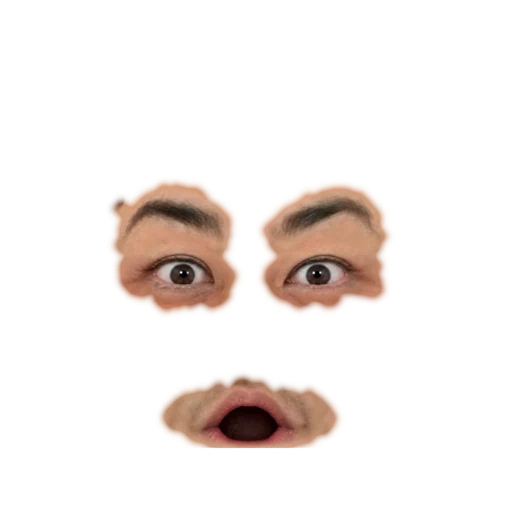
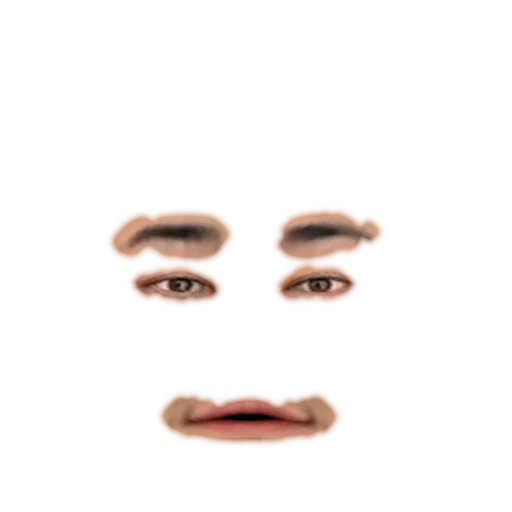
fix: 마동철 놀란 눈을 실사로 바꾸고 표정 그림 노멀맵 유지 (#167)

Changed region(s): [[0.2188, 0.3438, 0.4688, 0.625], [0.5, 0.3438, 0.7812, 0.625], [0.3438, 0.7188, 0.6562, 0.875]]

diff --git a/src/scene/realAssets.js b/src/scene/realAssets.js
@@ -195,7 +195,7 @@ function faceDecals(model, F, scene){
   const uvs = new THREE.BufferAttribute(uv, 2);
   const geos = parts.map(ix => {
     const q = new THREE.BufferGeometry();
-    q.setAttribute("position", P); q.setAttribute("normal", Nm); q.setAttribute("uv", uvs); q.setIndex(ix);
+    q.setAttribute("position", P); q.setAttribute("normal", Nm); q.setAttribute("uv", geo.attributes.uv); q.setAttribute("uvDecal", uvs); q.setIndex(ix);
     return q;
   });
   const loader = new THREE.TextureLoader();
@@ -206,8 +206,16 @@ function faceDecals(model, F, scene){
     geos.forEach((q, part) => {
       if(name === "closed" && part === 1) return;      // closing the eyes leaves the mouth as it is
       const m = model.skin.clone();
-      Object.assign(m, {map, normalMap: null, transparent: true, opacity: 0, depthWrite: false,
+      Object.assign(m, {map, transparent: true, opacity: 0, depthWrite: false,
         polygonOffset: true, polygonOffsetFactor: -1, polygonOffsetUnits: -4});
+      // the painting goes on by its projection (uvDecal); the skin's normal map stays on the mesh's own uv. Without it the
+      // patch shaded flat and lighter than the skin around it, a pale band over the eyes (user: "눈이 너무 어색해", 2026-10-24)
+      m.onBeforeCompile = sh => {
+        sh.vertexShader = "attribute vec2 uvDecal;\nvarying vec2 vDecalUv;\n" + sh.vertexShader.replace("#include <uv_vertex>", "#include <uv_vertex>\n  vDecalUv = uvDecal;");
+        sh.fragmentShader = "varying vec2 vDecalUv;\n" + sh.fragmentShader.replace("#include <map_fragment>",
+          "vec4 sampledDiffuseColor = texture2D(map, vDecalUv);\n  diffuseColor *= sampledDiffuseColor;");
+      };
+      m.customProgramCacheKey = () => "faceDecal";
       const d = new THREE.Mesh(q, m);
       d.position.copy(o.position); d.quaternion.copy(o.quaternion); d.scale.copy(o.scale);
       d.renderOrder = 1 + k; d.frustumCulled = false; d.visible = false;

diff --git a/AGENTS.md b/AGENTS.md
@@ -435,4 +435,5 @@
   - `realAssets.js` `MODELS.patient12.seam`이 그 자름을 가리키고, `neckColumn`이 거기서부터 짧게(6 cm) 비튼다.
   - 표정 4장 겹침은 최필라와 같다. 손은 측정값 그대로다(짧은 머리라 귀가 피부에 드러남).
   - 절차는 `scripts/assets/README.md` "이미지 기반 환자 2"에 있다. 폰 실기기 확인 전이다.
+  - 눈(2026-10-24, 사용자: "눈이 너무 어색해. 존나 괴상하다."): 놀람 그림(`expr_open`)이 흰자 큰 만화 눈이라 원래 눈과 겹쳐 유리알처럼 보였다. 평소 눈에서 조금만 더 뜬 실사 눈으로 다시 그렸다. 표정 그림 메시(`faceDecals`)는 이제 피부 노멀맵을 메시 원래 uv로 그대로 쓰고, 그림만 투영 uv(`uvDecal`)로 입힌다. 노멀맵이 빠지면 눈 둘레가 평평하고 허옇게 떴다.
 
